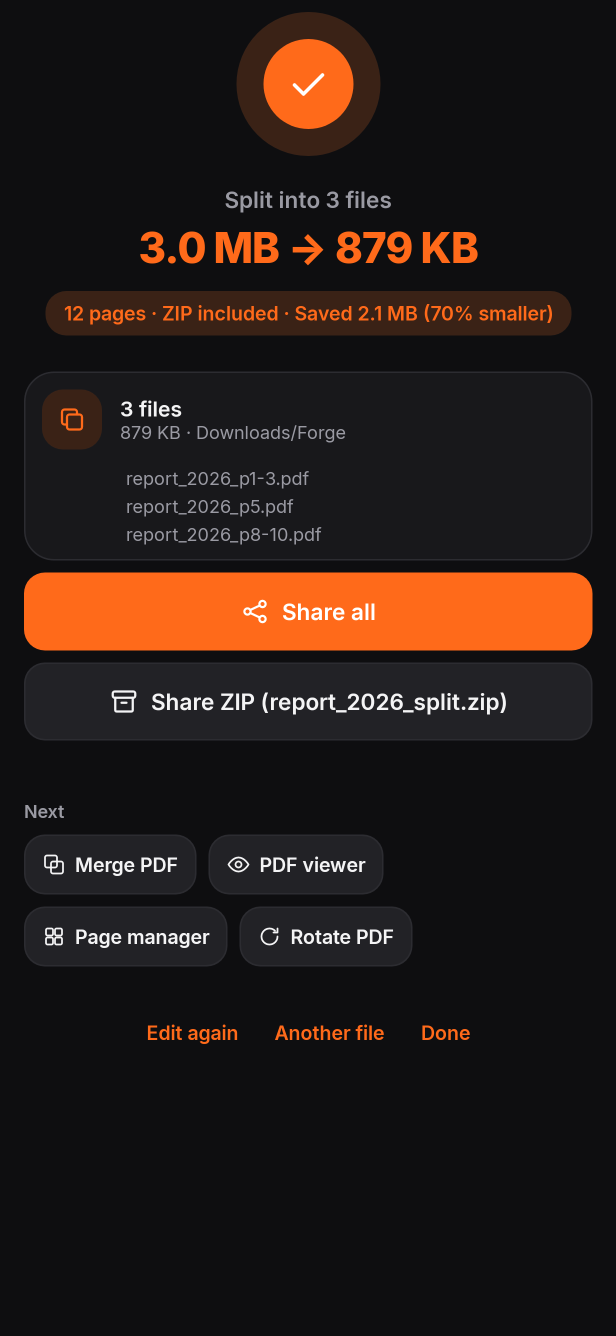
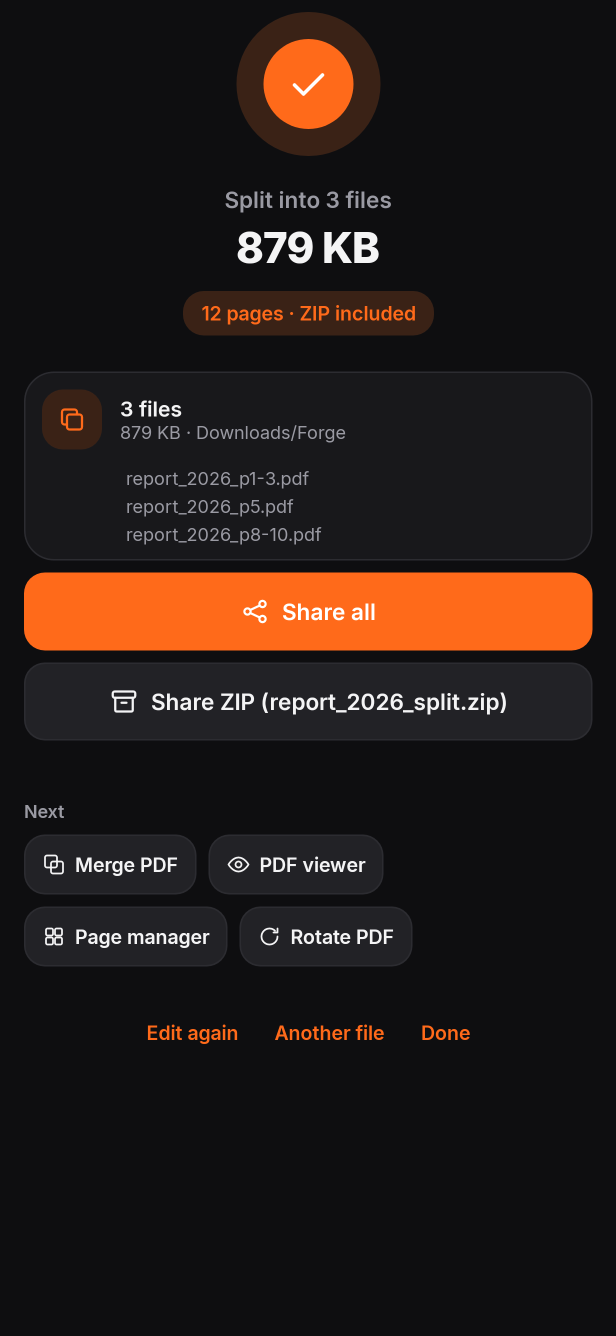
Re-record screenshots, hide misleading savings on multi-file results, document Batch 2 building blocks
Claude-Session: https://claude.ai/code/session_01QtjDEfUSeiytvFedJK5fax

Changed region(s): [[0.0617, 0.1534, 0.9253, 0.2762]]

diff --git a/docs/ADDING_A_TOOL.md b/docs/ADDING_A_TOOL.md
@@ -78,3 +78,18 @@ That's it: search, category lists, pins, the `tool/{code}` route, the "Open with
 `core/`: `FileKind`, `PickedFile`/`FileResolver`, `OutputNaming`/`OutputSaver`, `FileActions` (share/open),
 `RecentFilesStore`, `ToolViewModel`, `NextSuggestions`, `IncomingIntents`, `core/pdf/` (`PdfLoader`, `PdfThumbnails`, `PdfToolViewModel`).
 `ui/toolkit/`: `ToolScaffold`, `PasswordDialog`, `OpenWithSheet`, `rememberFilePicker`, `ForgeSnackbarHost`/`rememberSnack`.
+
+## Added in Batch 2
+
+- `core/pdf/PdfAssembler` builds any new PDF from pages of existing ones (order, duplicates, turns, blanks): Extract, Split, Page manager and Insert all use it. `PdfMerger` (PDFBox merger, temp-file mode) backs Merge.
+- `core/pdf/PageRanges` parses `1-3, 5, 8-10`; `PageEditor` is the Page manager's undo/redo page-index model.
+- Passwords: `PdfLoader` decrypts into a working copy and records a `PdfProtection`; every tool writes its output through it (`PdfSource.protection`, `PdfProtection.applyTo`). Mixed sources use `PdfProtection.forAll`.
+- Option state that should survive process death: `persistedInt/Bool/String/IntSet/persisted(...)` in `ToolViewModel` (reset when new files are picked, kept after a restore: check `stateRestored`).
+- Many outputs: return `ToolOutcome(outputs = ..., archive = zip)`; the result screen offers Share all / Share ZIP and rolls back saved files if a run fails or is cancelled.
+- UI: `PageThumb` / `PageSelectGrid`, `ReorderableGrid` / `ReorderableColumn` (drag to reorder), `ForgeTextField`, `Stepper`, `ToggleRow`, `InfoNote`, `OptionChip`.
+
+## Screenshots
+
+`./gradlew recordRoborazziDebug --tests '*ScreenshotTest'` writes light/dark PNGs of every screen to `docs/screenshots/`
+(Roborazzi, Robolectric native graphics, 411x891dp). Plain `testDebugUnitTest` renders the same screens but writes nothing.
+Look at the PNGs after UI changes. Robolectric's PdfRenderer draws nothing, so tests swap in `PdfBoxRasterizer`.
